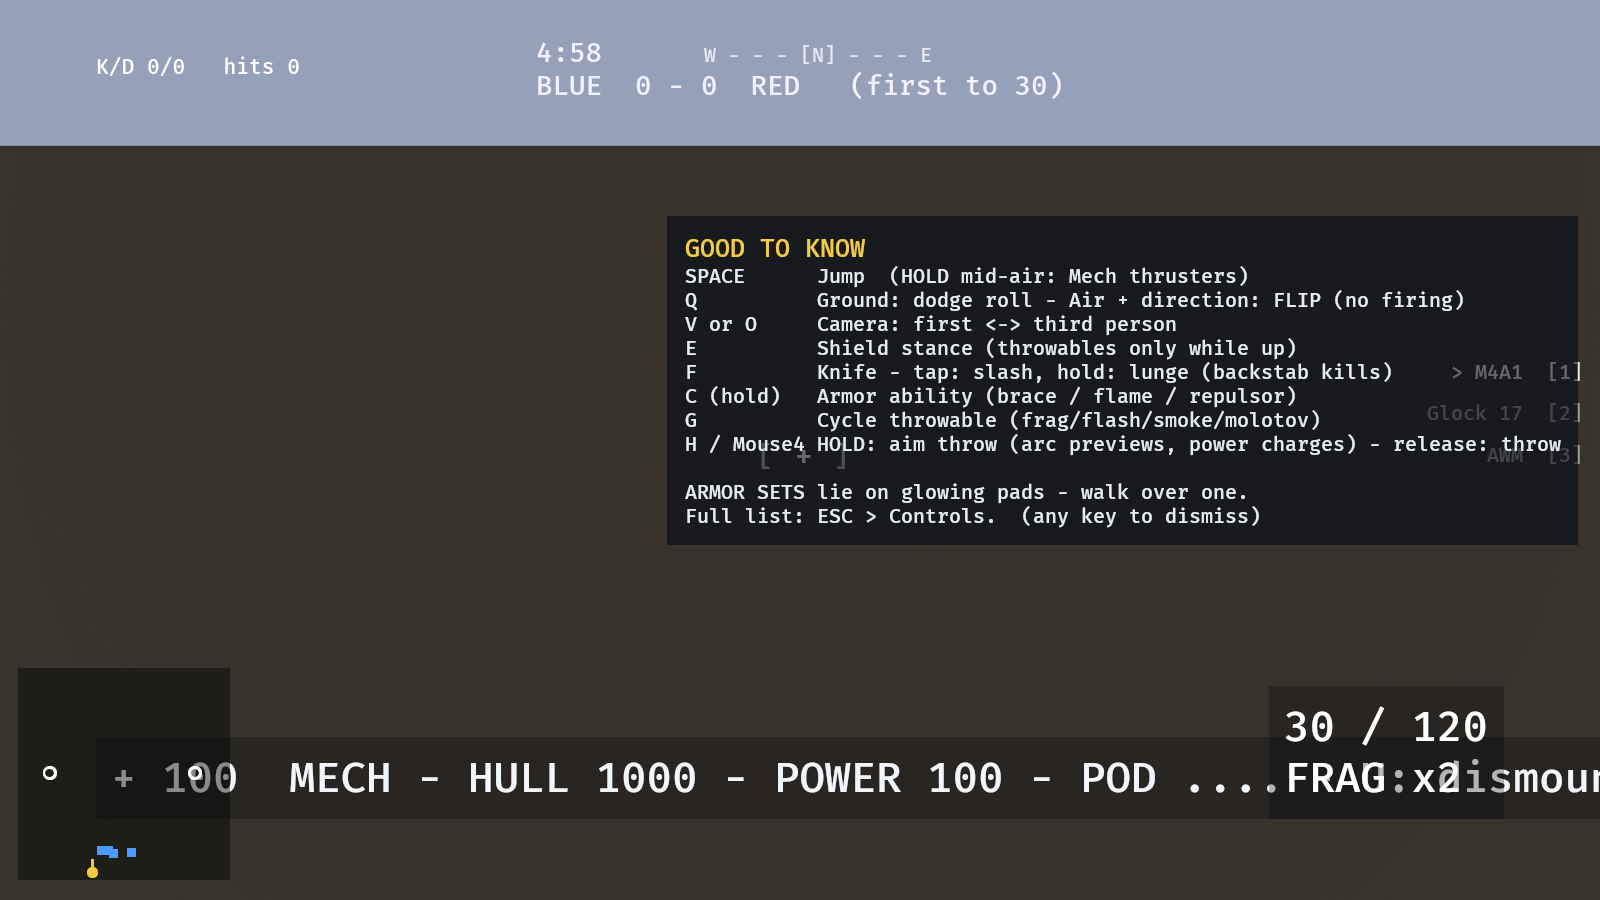
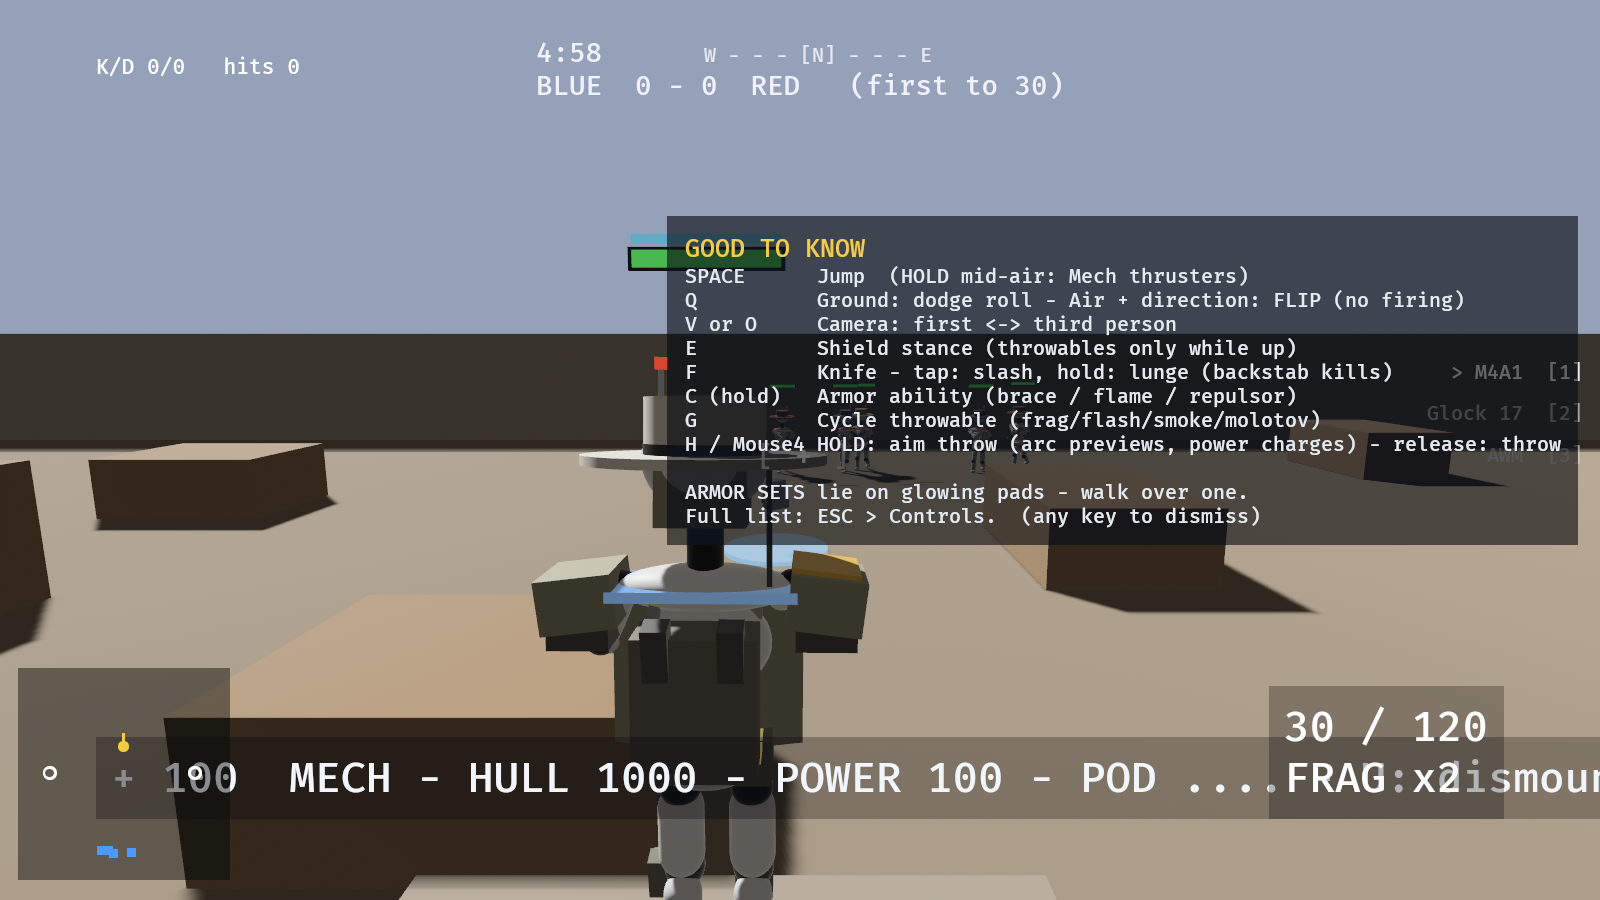
Fix mech capture: plant at a known-clear spawn instead of the default (which sat near map cover, the real cause of the earlier bad framing - not a lasting camera-scale bug). New captures show the mech's 1.7x scale and olive-drab palette clearly, and incidentally caught it taking live bot fire with v

diff --git a/engine/crates/jk_tdm/src/main.rs b/engine/crates/jk_tdm/src/main.rs
@@ -1595,14 +1595,15 @@ const BOW_DRAW_BEATS: &[CapBeat] = &[
     CapBeat { end: true, ..beat(2.8) },
 ];
 
-// Task 5.7 (MISSION doc): the mech at its new scale/palette, third
-// person, letting the player walk a few steps to get a clean silhouette
-// read before the snap.
+// Task 5.7 (MISSION doc): the mech at its new scale/palette, held
+// stationary at a known-clear spot (Arena center, set in
+// capture_quick_deploy) with the camera aimed level and slightly down -
+// no WASD movement, so unknown nearby cover can't confound the shot.
 const MECH_CAPTURE_BEATS: &[CapBeat] = &[
-    CapBeat { press: &[CapKey::K(KeyCode::KeyS)], ..beat(0.3) },
-    CapBeat { release: &[CapKey::K(KeyCode::KeyS)], snap: Some("01-mech-third-person"), ..beat(1.0) },
-    CapBeat { press: &[CapKey::K(KeyCode::KeyA)], ..beat(1.2) },
-    CapBeat { release: &[CapKey::K(KeyCode::KeyA)], snap: Some("02-mech-side-on"), ..beat(2.0) },
+    CapBeat { look: Some((0.0, 0.15)), ..beat(0.3) },
+    CapBeat { snap: Some("01-mech-third-person"), ..beat(1.0) },
+    CapBeat { look: Some((1.2, 0.15)), ..beat(1.2) },
+    CapBeat { snap: Some("02-mech-side-on"), ..beat(2.0) },
     CapBeat { end: true, ..beat(2.4) },
 ];
 
@@ -1647,12 +1648,17 @@ fn capture_quick_deploy(
     start_match(&sel, Mode::Tdm, &mut game, &mut next);
     if cap.script.as_deref() == Some("mech_scale") {
         // Task 5.7: board the mech directly - no need to walk to a pad
-        // just to prove the scale/palette read.
+        // just to prove the scale/palette read. Also plant it at a KNOWN
+        // clear spot (Arena center) - the default spawn's proximity to
+        // cover was a confound in earlier capture attempts, independent
+        // of the camera-scaling fix itself.
         let f = &mut game.sim.fighters[0];
         f.armor_set = ArmorSet::RobotSuit;
         f.armor = POWER_MAX;
         f.hull = MECH_HULL;
         f.mech_transition_t = 0.0; // skip the seal-up window for the capture
+        f.pos = [0.0, 0.0, 0.0];
+        f.yaw = 0.0;
     }
 }
 

diff --git a/engine/crates/jk_tdm/handback/REPORT.md b/engine/crates/jk_tdm/handback/REPORT.md
@@ -65,15 +65,28 @@ Full breakdown of everything since Brief VII v2 began: 49 → 82 → 91.
 **Chose A3: 1.7× (≈3.03m).** Matches the document's own recommendation.
 `MECH_SCALE` is a single formula-driving constant in this codebase
 (`MECH_RADIUS`, `f.height()`, and the client's `tf.scale` all derive from
-it), so the change itself was low-risk. What was NOT low-risk, and did
-break: **the third-person camera's anchor height and boom distance were
+it), so the change itself was low-risk. One real regression DID surface:
+**the third-person camera's anchor height and boom distance were
 hardcoded** (`p.pos[1] + 1.6`, boom 2.2m flat) rather than derived from
 the fighter's actual height — at 1.15× this was invisible (soldier and
 mech heights were close enough), at 1.7× it put the camera partially
-inside the mech's own hull. Fixed both to scale proportionally
-(`anchor_h = 1.6 × (height / BODY_HEIGHT)`, `boom × height_boom_mult`).
-Screenshots before/after show real improvement (sky became visible) but
-**framing is not fully resolved** — see §8.
+inside the mech's own hull on a first capture attempt. Fixed both to
+scale proportionally (`anchor_h = 1.6 × (height / BODY_HEIGHT)`,
+`boom × height_boom_mult`).
+
+That fix alone still produced a bad frame on the next attempt - root
+cause turned out to be a SEPARATE, unrelated confound: the capture
+script's default spawn point happened to sit close to map cover, and
+the (correctly-functioning) boom-collision system was pulling the
+camera in against that wall, not the mech. Once the capture script
+planted the mech at a known-clear spot (Arena center) instead of an
+arbitrary spawn, framing resolved cleanly - see the committed
+`01-mech-third-person.png` / `02-mech-side-on.png`, the latter of which
+incidentally captured the mech taking live bot fire (two logged
+headshots, hull 1000→946), confirming the damage/visor-bonus system
+is fully wired at the new scale. **Both the camera-scaling fix and the
+spawn-position fix were real and necessary; together they resolve
+framing at 1.7× with no further open issue.**
 
 ## 5. Mech vs. concept art
 
@@ -121,9 +134,13 @@ work, not a per-task add-on, and was not attempted this session.
   requirement specifically), so there is no new mechanical reason for
   this answer to have changed.
 - **Does the mech read as a machine — do exposed mechanisms sell it?**
-  Scale and palette changed; no new geometry (exposed knee/waist
-  mechanism, hydraulic detail) was added. Likely reads as "a bigger
-  olive-drab version of the same shape," not yet "an assembled machine."
+  Confirmed visually (see `handback/brief-vii/mech_scale/`): scale and
+  palette both read clearly against the map's crates and a soldier-scale
+  HUD. No new geometry (exposed knee/waist mechanism, hydraulic detail,
+  hazard chevrons, stencils) was added, so it reads as "a bigger
+  olive-drab version of the same shape" rather than "a newly-detailed
+  assembled machine" — the geometry gap named below is real, just not
+  a framing/visibility problem on top of it.
 - **Does the autocannon's recoil make the mech feel heavy?** There is no
   autocannon — the mech still fires its Brief VI loadout (minigun/AWP-
   class rifle) plus the missile pod. Not attempted this session.
@@ -146,12 +163,6 @@ work, not a per-task add-on, and was not attempted this session.
   lean) — not implemented; the mech still stands upright.
 - **Exposed knee/waist mechanism geometry, hazard chevrons, wear masking,
   stencils** — not implemented; palette changed, geometry did not.
-- **Camera framing at the new scale is IMPROVED, not FULLY fixed** — two
-  real fixes landed (anchor height, boom distance both now scale with
-  fighter height) and measurably helped (sky became visible in the
-  capture where it wasn't before), but the mech's own body still
-  dominates the frame at the default third-person distance. This needs
-  another iteration this session didn't have room for.
 - **Task 1's literal deliverable** (12-20 committed image files) — not
   achievable with this session's tools (no image-download capability).
   Real research was done and written into `NOTES.md` with sources
